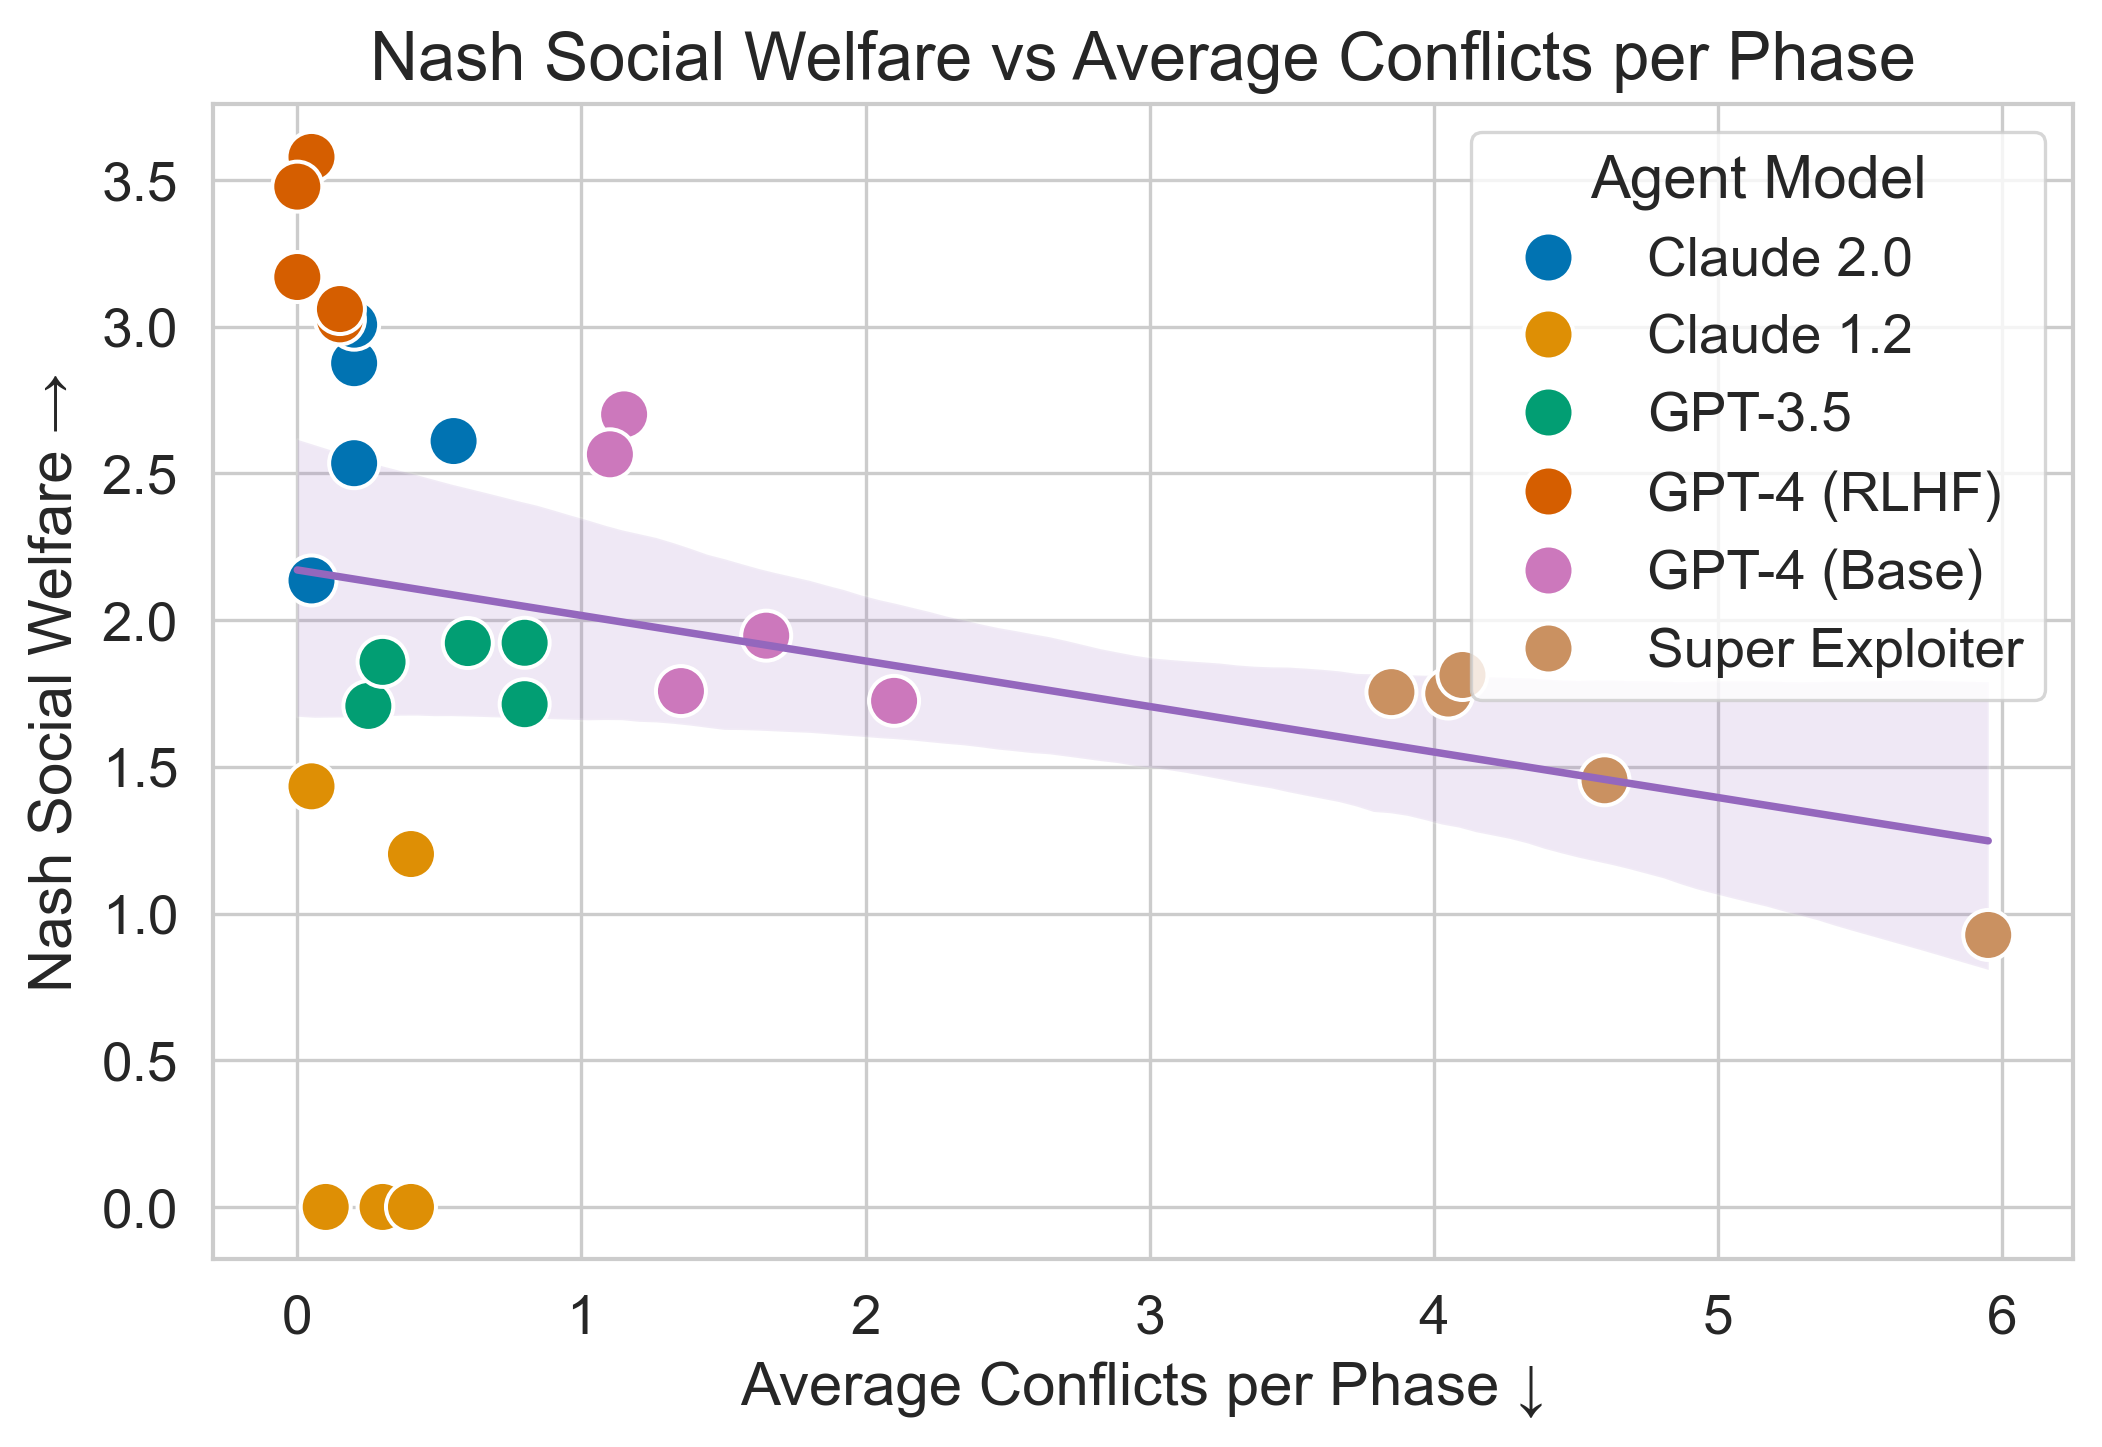
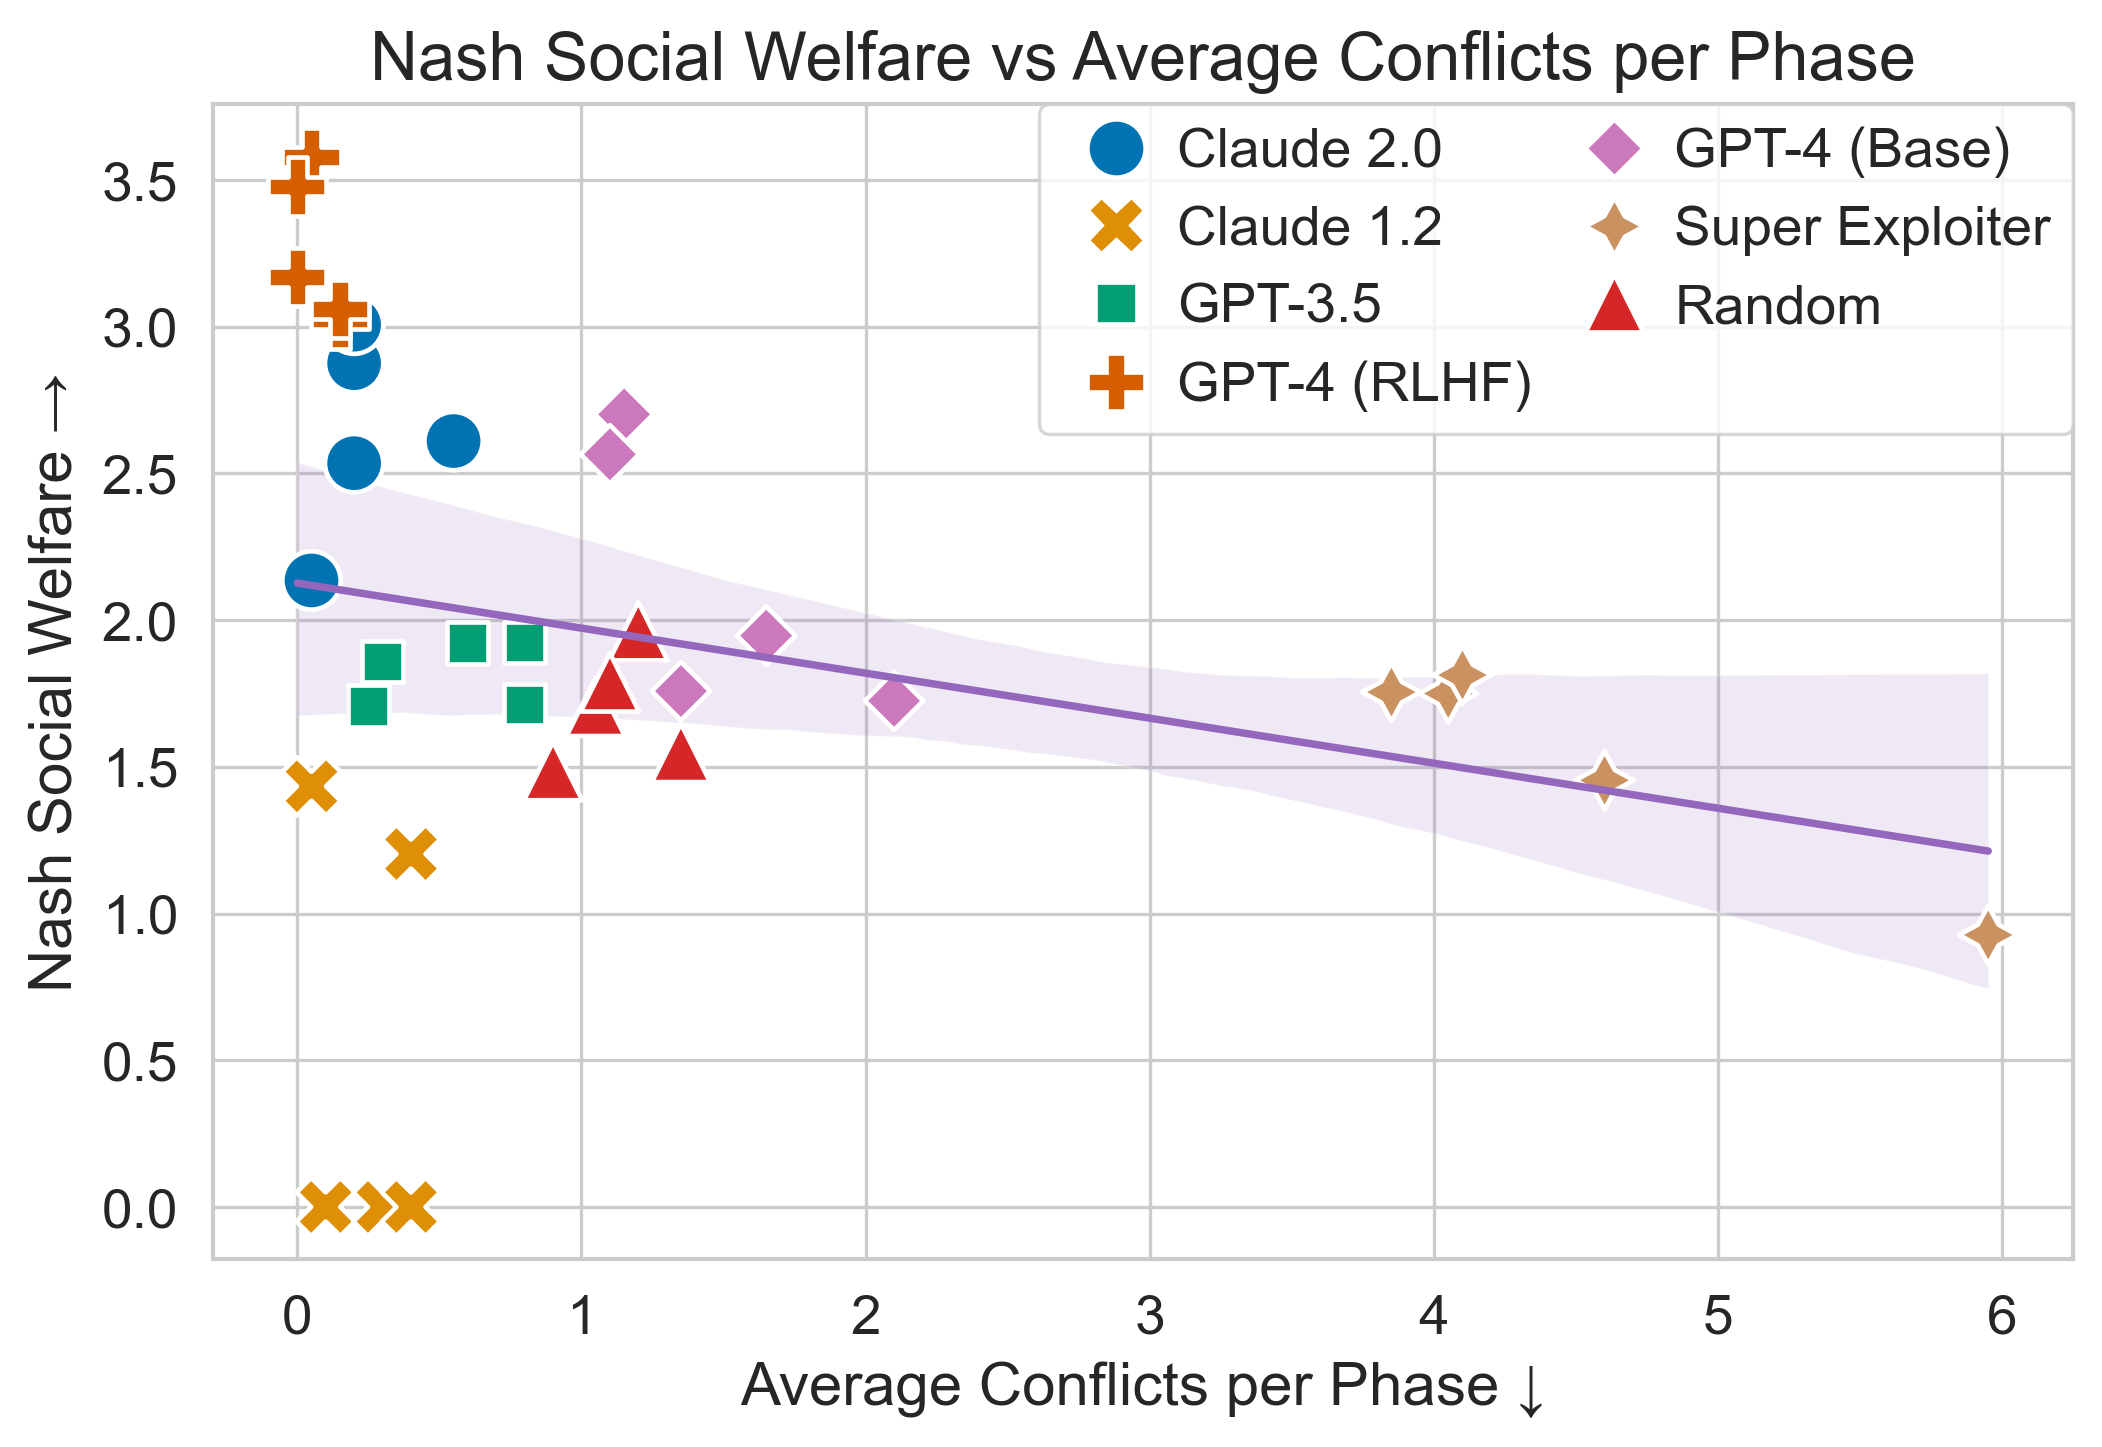
Plot random SP

diff --git a/experiments/charts/same_policy.py b/experiments/charts/same_policy.py
@@ -29,6 +29,7 @@ INPUT_FILES_MODELS = [
     "../results/same_policy/SP SuperExploiter (GPT-4).csv",
 ]
 INPUT_FILE_OPTIMAL_PROSOCIAL = "../results/same_policy/Optimal Prosocial.csv"
+INPUT_FILE_RANDOM = "../results/same_policy/SP Random.csv"
 
 OUTPUT_DIR = "same_policy"
 
@@ -45,6 +46,8 @@ def main() -> None:
     df_optimal_prosocial = pd.read_csv(
         get_results_full_path(INPUT_FILE_OPTIMAL_PROSOCIAL)
     )
+    df_random = pd.read_csv(get_results_full_path(INPUT_FILE_RANDOM))
+    df_random["agent_model"] = "Random"
 
     # Change the agent model of all rows with non-empty super_exploiter_powers to "Super Exploiter"
     df_models.loc[
@@ -65,10 +68,31 @@ def main() -> None:
     print(df_models.groupby(["agent_model"])["_progress/percent_done"].mean())
 
     # Plot a bunch of different bar graphs for different metrics
-    for metric_name, y_label, improvement_sign, include_optimal, include_random in [
-        ("benchmark/nash_social_welfare_global", "Nash Social Welfare", 1, True, True),
-        ("benchmark/competence_score", "Competence Score", 1, False, False),
-        ("combat/game_conflicts_avg", "Average Conflicts per Phase", -1, False, True),
+    for (
+        metric_name,
+        y_label,
+        improvement_sign,
+        include_optimal,
+        include_random,
+        legend_loc,
+    ) in [
+        (
+            "benchmark/nash_social_welfare_global",
+            "Nash Social Welfare",
+            1,
+            True,
+            True,
+            (0.0, 0.75),
+        ),
+        ("benchmark/competence_score", "Competence Score", 1, False, False, "best"),
+        (
+            "combat/game_conflicts_avg",
+            "Average Conflicts per Phase",
+            -1,
+            False,
+            True,
+            "best",
+        ),
     ]:
         # Initialize
         initialize_plot_bar()
@@ -108,7 +132,20 @@ def main() -> None:
                 linewidth=2,
                 label="Optimal Prosocial",
             )
-            plt.legend()
+            plt.legend(loc=legend_loc)
+
+        if include_random:
+            # Calculate the average of the metric for random
+            random_avg = df_random[metric_name].mean()
+            # Add horizontal line for random with label
+            plot.axhline(
+                random_avg,
+                color=COLOR_ALT_2,
+                linestyle="--",
+                linewidth=2,
+                label="Random",
+            )
+            plt.legend(loc=legend_loc)
 
         # Set labels and title
         plt.xlabel(x_label)
@@ -132,9 +169,10 @@ def main() -> None:
         plt.clf()
 
     # Special plot: Scatterplot of nash social welfare vs conflicts
-    df_plot = df_models.copy()
+    df_plot = pd.concat([df_models, df_random]).copy()
     df_plot["agent_model"] = df_plot["agent_model"].str.replace("\n", " ")
-    df_plot = df_plot.rename(columns={"agent_model": "Agent Model"})
+    grouping = "Agent Model"
+    df_plot = df_plot.rename(columns={"agent_model": grouping})
     initialize_plot_default()
     plt.rcParams["lines.marker"] = ""
     sns.regplot(
@@ -145,17 +183,25 @@ def main() -> None:
         color=COLOR_ALT_1,
     )
     initialize_plot_default()
-    plt.rcParams["lines.markersize"] = 12
+    plt.rcParams["lines.markersize"] = 14
     sns.scatterplot(
         data=df_plot,
         x="combat/game_conflicts_avg",
         y="benchmark/nash_social_welfare_global",
-        hue="Agent Model",
-        palette=MODEL_COMPARISON_COLORS,
+        hue=grouping,
+        style=grouping,
+        palette=MODEL_COMPARISON_COLORS + [COLOR_ALT_2],
     )
     plt.xlabel("Average Conflicts per Phase ↓")
     plt.ylabel("Nash Social Welfare →")
     plt.title("Nash Social Welfare vs Average Conflicts per Phase")
+    # Legend in 2 columns
+    plt.legend(
+        borderaxespad=0.0,
+        ncol=2,
+        handletextpad=0.1,
+        columnspacing=0.5,
+    )
     title = "SP Nash Social Welfare vs Conflicts.png"
     output_file = get_results_full_path(os.path.join(OUTPUT_DIR, title))
     save_plot(output_file)
